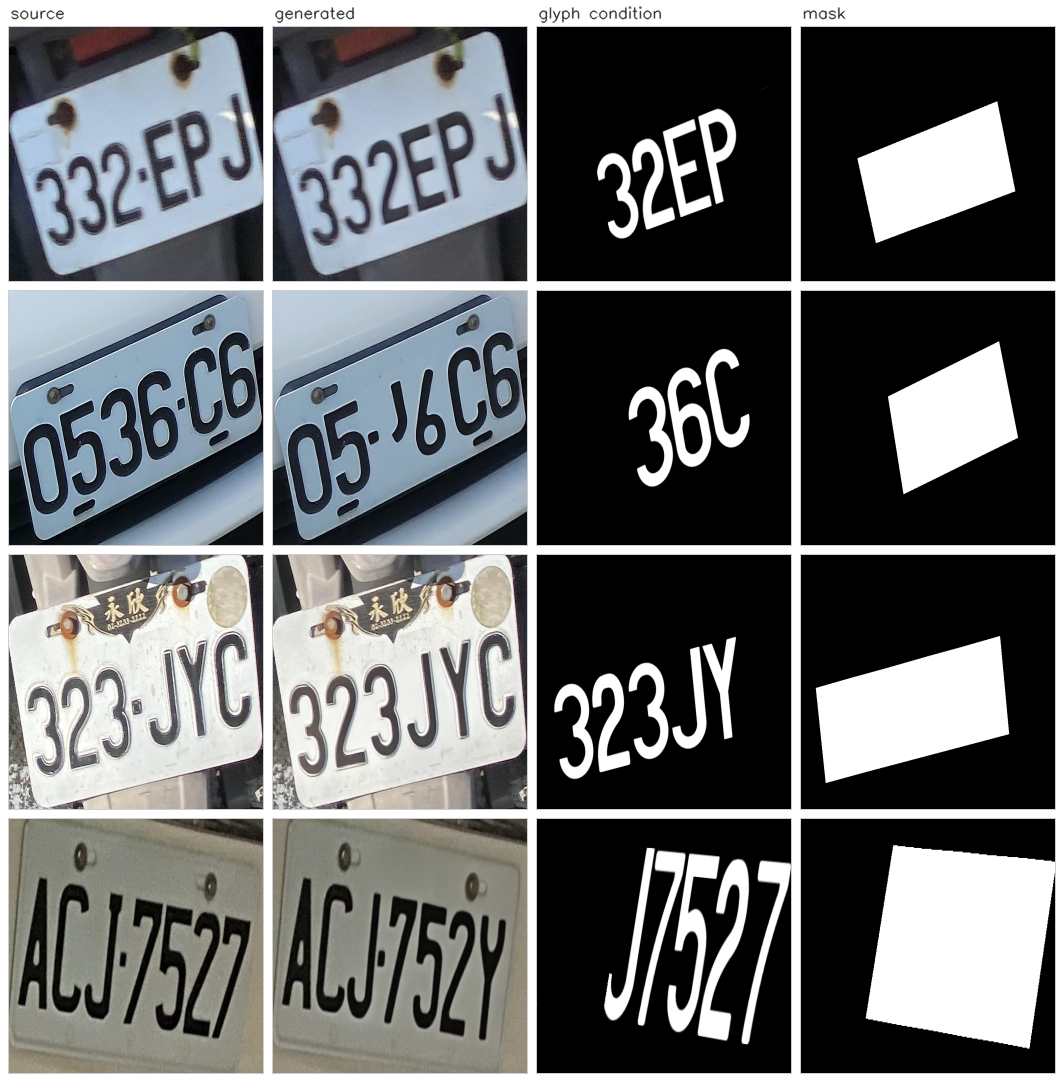
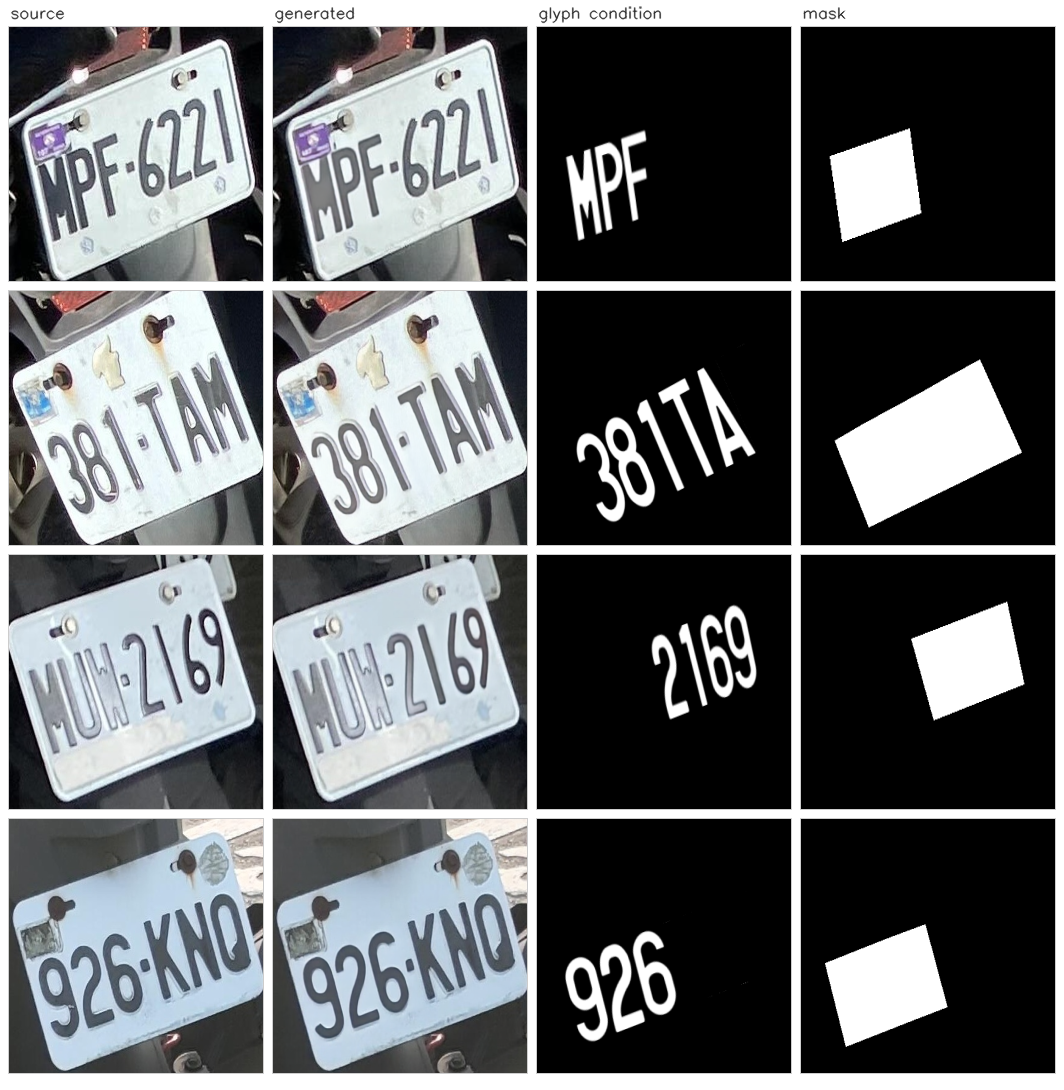
Use successful examples in the teaser, and state the real success rate
The previous figure was a random draw that happened to contain two failures out
of four, against a measured 81% success rate — a 14% outcome. The figure now
shows selected successes, and the caption says so and gives the full-split
numbers, so nobody reads the header image as the typical result.

diff --git a/README.md b/README.md
@@ -11,9 +11,11 @@ inference, and the three evaluation metrics used in the paper.
 
 ![source, generated, glyph condition, mask](docs/teaser.png)
 
-Four randomly drawn test samples, sharpest half of the split, shown without
-cherry-picking: rows 1 and 3 reproduce the target text, rows 2 and 4 do not.
-Measured over the full test split of 3,258 images: **ACC 0.8109, NED 0.9549**.
+Four selected test samples where the recogniser reads the edited plate
+correctly. Over the full test split of 3,258 images the model reaches
+**ACC 0.8109, NED 0.9549** — so roughly one plate in five is not read back as
+its target, typically through a single stroke-level confusion such as 3 → 1 or
+7 → 1 rather than a wholly wrong character.
 
 ## What is here
 
